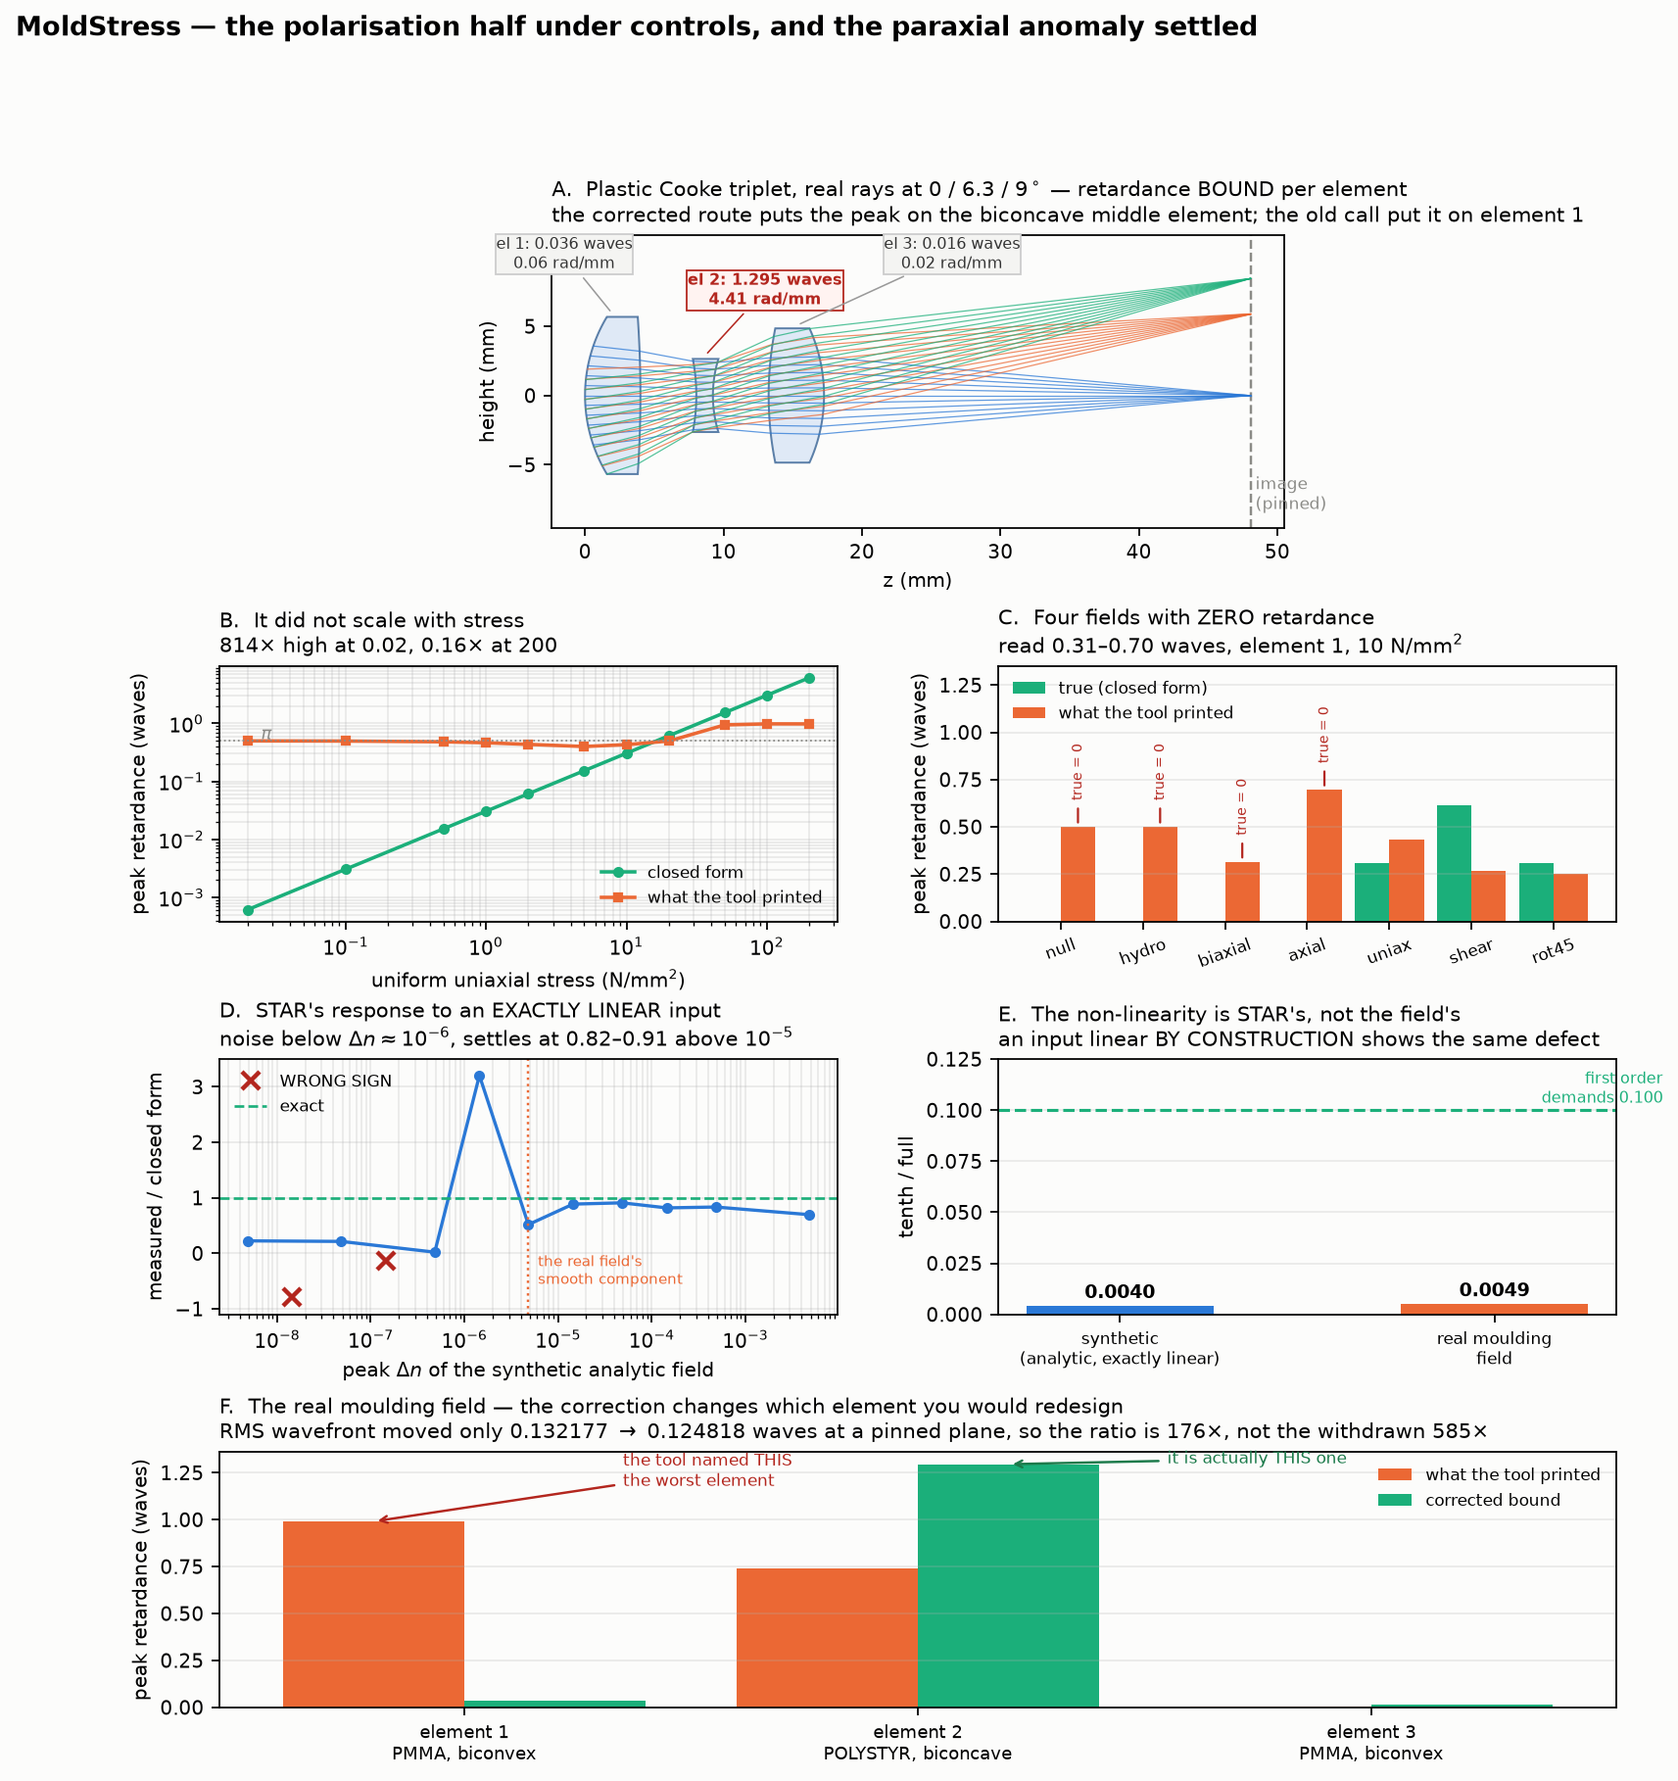
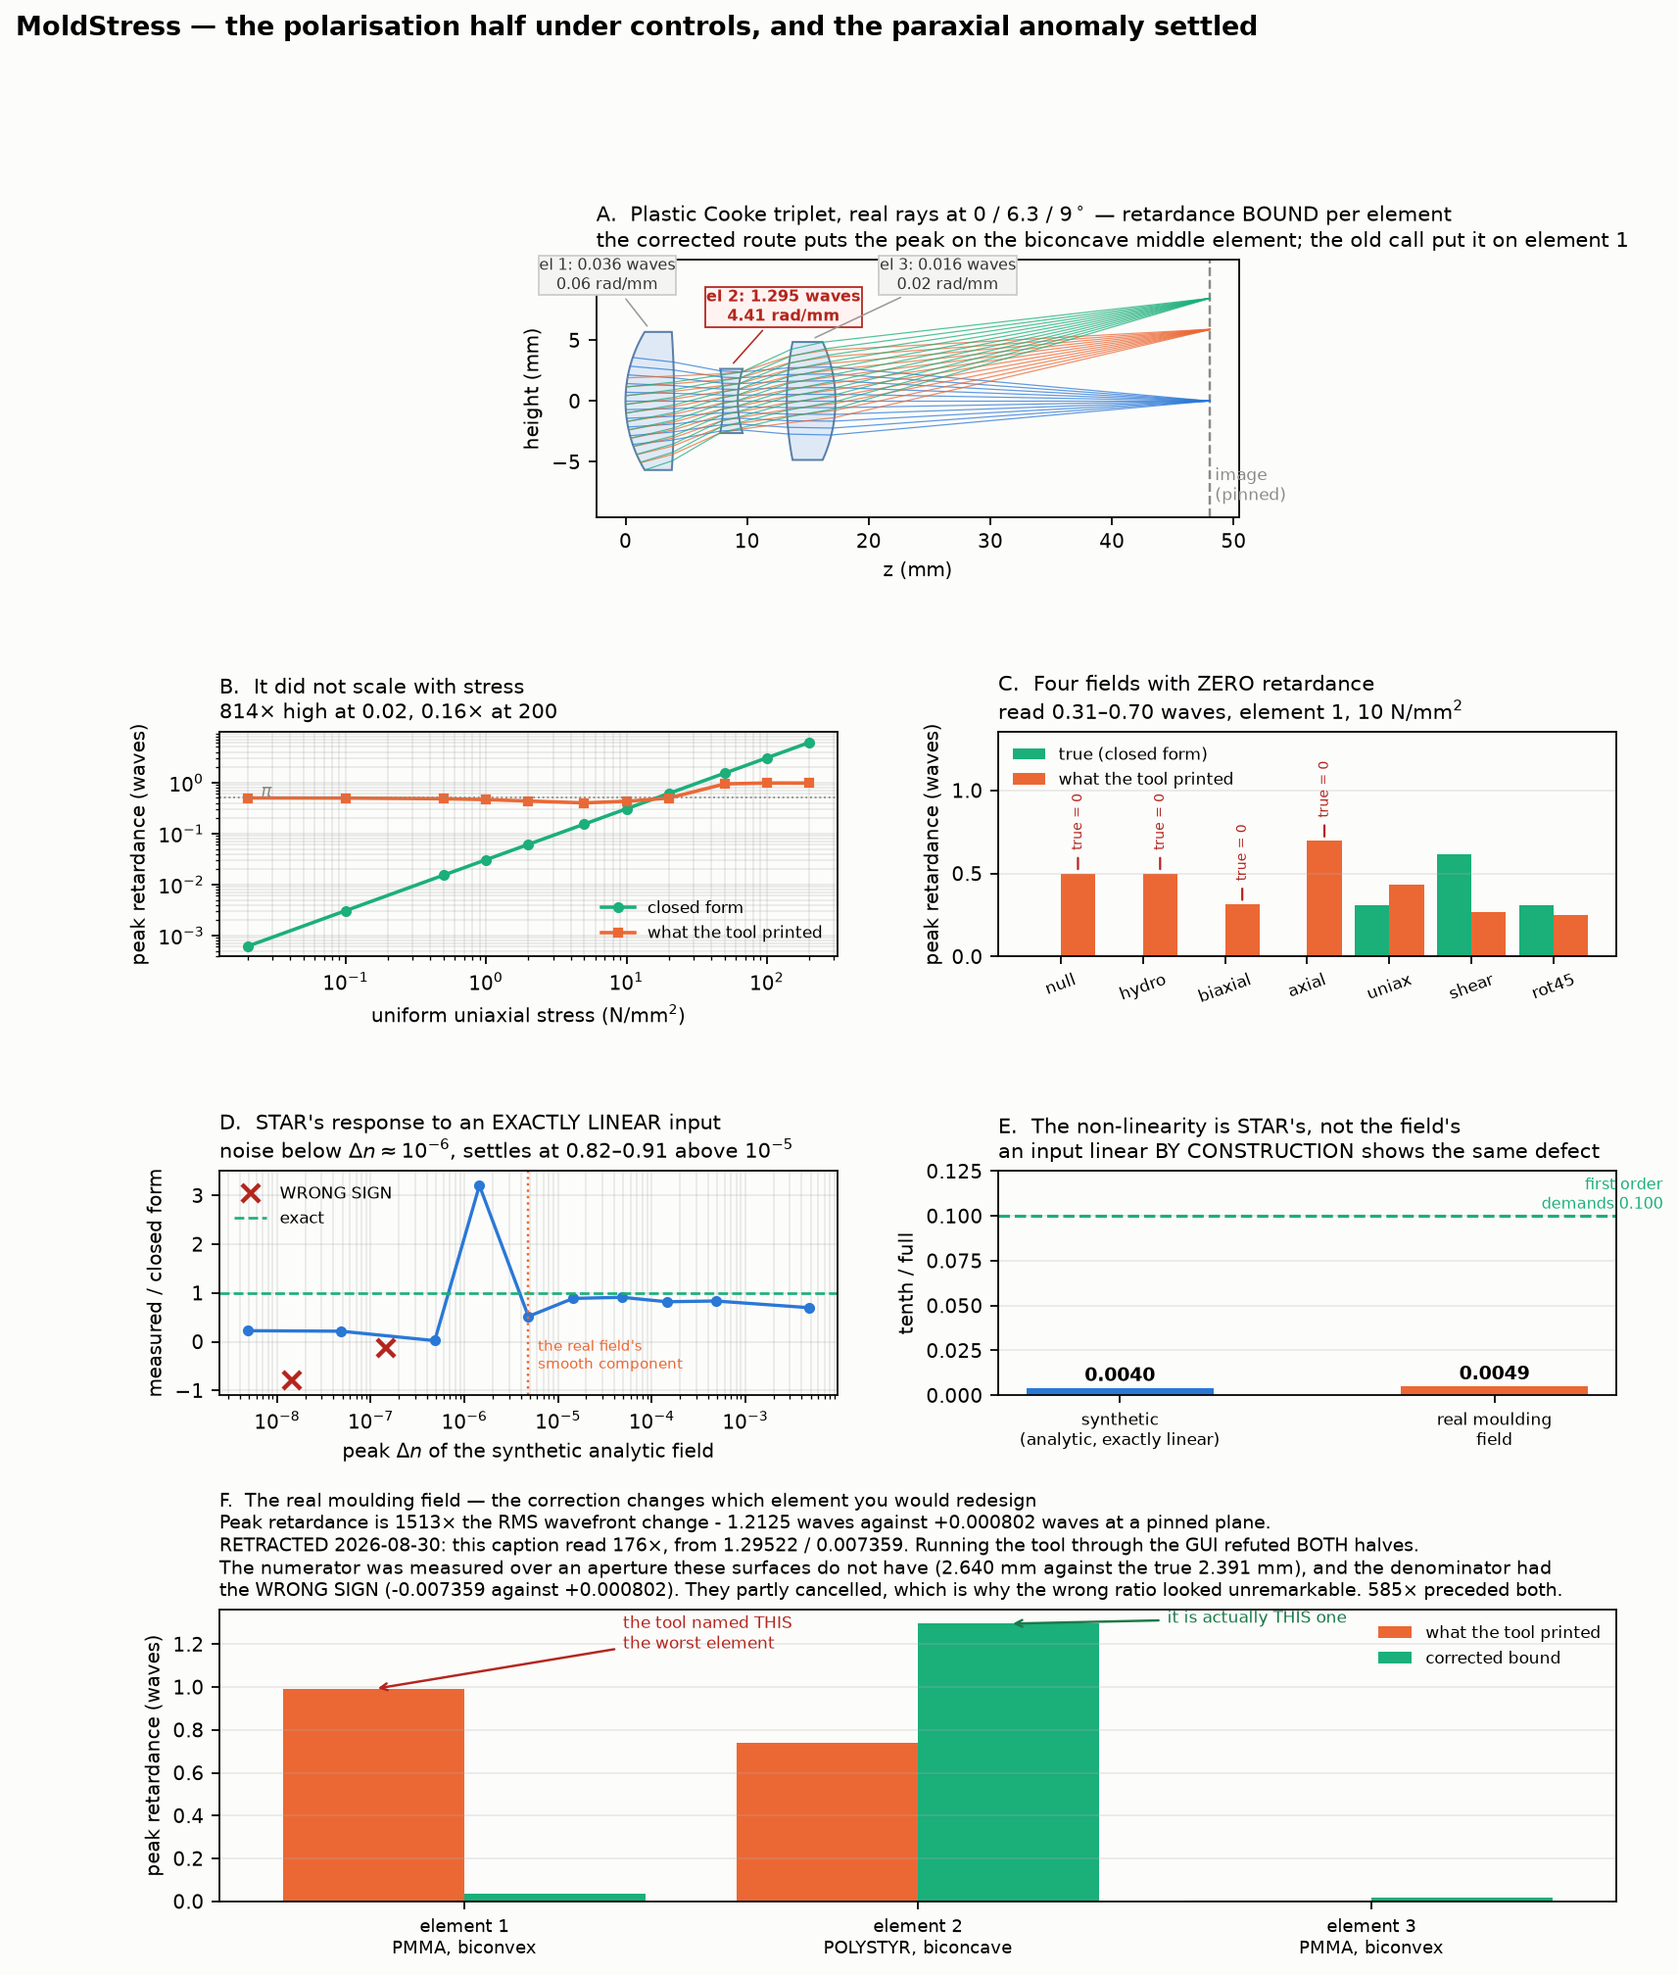
Retract 176x from the exec-summary figure, and add the batch summary
THE FIGURE GENERATOR STILL CARRIED A NUMBER THIS PROJECT WITHDREW YESTERDAY.
When the GUI run refuted 176x on 2026-08-29 the C# side was corrected in two
places - Runner.cs and SelfTest.cs both narrate the correction - and figs2.py
was not. Its panel F caption has been rendering "the ratio is 176x, not the
withdrawn 585x" into summary.png ever since, which is the one artifact anyone
looks at first.

Retracted in place rather than silently swapped, because the interesting part is
HOW it was wrong: both halves were, and they partly cancelled. The numerator was
measured over an aperture surfaces 3-4 do not have (2.640 mm against the true
2.391 mm) and the denominator had the wrong SIGN (-0.007359 against +0.000802).
A ratio wrong in both halves looked unremarkable, which is why it stood for
hours. The corrected figure is 1513x.

Also adds figs3.py -> figret/batch.png, the exec summary for the accuracy batch:

  A  2D layout, real rays at 0 / 6.3 / 9 deg. The peak retardance lands on
     element 2, MS_POLYSTYR - the one polymer of the three in this triplet whose
     coefficient source states no interval at all. The layout is where that
     lands, so that is where it is written.
  B  before / after MoldStress at the SAME image plane: 0.132177 -> 0.132978
     waves RMS, +0.000802 (+0.6%). B2 puts the 1.2125 waves of retardance beside
     it on a log axis, which is the 1513x point made visually.
  C  item 1 - the width of each polymer's answer from its own stated interval.
[…]

diff --git a/extensions/MoldStress/validation/mtf-triplet/figs3.py b/extensions/MoldStress/validation/mtf-triplet/figs3.py
@@ -1,0 +1,258 @@
+"""Exec summary for the accuracy batch - uncertainty bands, depth-model
+adjudication, and the STAR round-trip check.
+
+Panel A  2D layout with real traced rays, three fields, and where the peak
+         retardance lands - on the ONE element whose coefficient has no
+         published interval.
+Panel B  before / after MoldStress on the pinned image plane, with the
+         retardance beside it, because that is the 1513x point.
+Panel C  item 1 - how wide each polymer's retardance answer is, given the
+         interval its own source states. Two of five state none.
+Panel D  item 2 - the two depth models, adjudicated.
+Panel E  item 3 - the headline round-trip measurement: loading a uniform index
+         collapses F, d and C onto the d-line path.
+Panel F  item 3 - the check discriminates: clean vs poisoned.
+
+Writes figret/batch.png.
+"""
+import json
+import os
+
+import matplotlib
+matplotlib.use("Agg")
+import matplotlib.pyplot as plt
+import numpy as np
+
+from zos import ZOSAPI, connect, HERE
+
+BASE = os.path.join(HERE, "plastic-cooke-MoldStress.zmx")
+FIG = os.path.join(HERE, "figret")
+os.makedirs(FIG, exist_ok=True)
+SURFACE = "#fcfcfb"
+plt.rcParams.update({"font.size": 9, "figure.dpi": 160,
+                     "figure.facecolor": SURFACE, "axes.facecolor": SURFACE})
+BLUE, ORANGE, GREEN, GREY, RED = "#2a78d6", "#eb6834", "#1baf7a", "#8a8a86", "#b3261e"
+
+RT = json.load(open(os.path.join(HERE, "starroundtrip.json")))
+
+# From gui_run.txt - the run through the OpticStudio GUI on 2026-08-29, which is
+# the only route these numbers have ever been confirmed by. Deliberately NOT
+# recomputed here: a figure that recomputes its own numbers only ever agrees
+# with itself, and the 176x caption this batch retracted was born that way.
+WF_ORIG, WF_BASE, WF_MS = 0.174136, 0.132177, 0.132978
+RET_WAVES, RATIO = 1.2125, 1513
+
+app = connect()
+s = app.PrimarySystem
+assert s.LoadFile(BASE, False)
+NS = s.LDE.NumberOfSurfaces
+s.LDE.GetSurfaceAt(NS - 2).ThicknessCell.MakeSolveFixed()
+ROWS = [dict(i=i, R=float(s.LDE.GetSurfaceAt(i).Radius),
+             t=float(s.LDE.GetSurfaceAt(i).Thickness),
+             mat=(s.LDE.GetSurfaceAt(i).Material or ""),
+             sd=float(s.LDE.GetSurfaceAt(i).SemiDiameter)) for i in range(NS)]
+
+
+def sag(r, R):
+    if R == 0 or abs(R) > 1e9 or not np.isfinite(R):
+        return np.zeros_like(r)
+    q = np.clip(1.0 - (r / R) ** 2, 0.0, None)
+    return (r ** 2 / R) / (1.0 + np.sqrt(q))
+
+
+rt = s.Tools.OpenBatchRayTrace()
+NF, NP = 3, 11
+OPD_NONE = getattr(ZOSAPI.Tools.RayTrace.OPDMode, "None")
+zacc, acc = {}, 0.0
+for r in ROWS[1:NS - 1]:
+    zacc[r["i"]] = acc
+    acc += r["t"]
+zacc[NS - 1] = acc
+seg = {}
+for surf in range(1, NS):
+    hit = rt.CreateNormUnpol(NF * NP, ZOSAPI.Tools.RayTrace.RaysType.Real, surf)
+    for fi in range(NF):
+        for pi in range(NP):
+            hit.AddRay(2, 0.0, [0.0, 0.7, 1.0][fi], 0.0,
+                       -1.0 + 2.0 * pi / (NP - 1.0), OPD_NONE)
+    rt.RunAndWaitForCompletion()
+    hit.StartReadingResults()
+    while True:
+        ok, rayno, err, vig, x, y, z, l, m, n, l2, m2, n2, op, ii = hit.ReadNextResult()
+        if not ok:
+            break
+        if err == 0:
+            seg.setdefault(rayno - 1, []).append(
+                (zacc.get(surf, acc) + (z if surf < NS - 1 else 0.0), y))
+    try:
+        rt.ClearData()
+    except Exception:
+        pass
+rt.Close()
+app.CloseApplication()
+
+fig = plt.figure(figsize=(12.0, 13.6))
+gs = fig.add_gridspec(4, 2, height_ratios=[1.15, 1.0, 1.0, 1.0],
+                      hspace=0.62, wspace=0.27)
+
+# ================================================================== PANEL A
+axA = fig.add_subplot(gs[0, :])
+i = 1
+while i < NS - 1:
+    if ROWS[i]["mat"]:
+        j = i + 1
+        sd = max(ROWS[i]["sd"], ROWS[j]["sd"])
+        rr = np.linspace(-sd, sd, 240)
+        axA.fill(np.concatenate([zacc[i] + sag(np.abs(rr), ROWS[i]["R"]),
+                                 (zacc[j] + sag(np.abs(rr), ROWS[j]["R"]))[::-1]]),
+                 np.concatenate([rr, rr[::-1]]),
+                 color="#dfe9f6", ec="#5b7fa8", lw=0.9, zorder=2)
+        i = j + 1
+    else:
+        i += 1
+for rayno, pts in seg.items():
+    p = np.array(pts)
+    axA.plot(p[:, 0], p[:, 1], lw=0.55, color=[BLUE, ORANGE, GREEN][rayno // NP],
+             alpha=0.75, zorder=3)
+axA.axvline(acc, color=GREY, lw=1.1, ls="--", zorder=1)
+axA.text(acc, -8.6, " image\n (pinned)", fontsize=7.5, color=GREY, va="bottom")
+notes = {1: ("el 1  MS_PMMA", "interval 3.07x wide", -1.5, 9.6),
+         3: ("el 2  MS_POLYSTYR", "PEAK 1.2125 waves\ninterval UNQUANTIFIED", 13.0, 7.6),
+         5: ("el 3  MS_PMMA", "interval 3.07x wide", 27.0, 9.6)}
+for f, (nm, sub, tx, ty) in notes.items():
+    peak = (f == 3)
+    zc = 0.5 * (zacc[f] + zacc[f + 1])
+    axA.annotate("%s\n%s" % (nm, sub),
+                 xy=(zc, max(ROWS[f]["sd"], ROWS[f + 1]["sd"]) + 0.2),
+                 xytext=(tx, ty), ha="center", fontsize=7.4, zorder=6,
+                 color=RED if peak else "#333",
+                 fontweight="bold" if peak else "normal",
+                 arrowprops=dict(arrowstyle="-", lw=0.7,
+                                 color=RED if peak else "#999"),
+                 bbox=dict(fc="#fff3f1" if peak else "#f4f4f2",
+                           ec=RED if peak else "#ccc", lw=0.8, pad=0.3))
+axA.set_title("A.  Plastic Cooke triplet, real rays at 0 / 6.3 / 9$^\\circ$ - where the answer is least certain\n"
+              "the peak retardance lands on the ONE element whose coefficient source states no interval at all",
+              fontsize=9.5, loc="left")
+axA.set_xlabel("z (mm)")
+axA.set_ylabel("height (mm)")
+axA.set_ylim(-9.6, 12.2)
+axA.set_aspect("equal", adjustable="box")
+axA.grid(alpha=0.18)
+
+# ================================================================== PANEL B
+axB = fig.add_subplot(gs[1, 0])
+axB.bar([0, 1, 2], [WF_ORIG, WF_BASE, WF_MS], 0.55, color=[GREY, BLUE, ORANGE])
+for k, v in enumerate([WF_ORIG, WF_BASE, WF_MS]):
+    axB.text(k, v + 0.005, "%.6f" % v, ha="center", fontsize=8.0, fontweight="bold")
+axB.set_xticks([0, 1, 2])
+axB.set_xticklabels(["original\nmaterials", "baseline\npolymers, no stress",
+                     "with moulding\neffects"], fontsize=7.6)
+axB.set_ylabel("RMS wavefront (waves)")
+axB.set_ylim(0, 0.225)
+axB.annotate("+0.000802 waves\n(+0.6%)", xy=(2, WF_MS), xytext=(1.55, 0.185),
+             fontsize=7.8, color=ORANGE, ha="center",
+             arrowprops=dict(arrowstyle="->", color=ORANGE, lw=1.0))
+axB.set_title("B.  Before / after MoldStress, SAME image plane\nso this is optics and not refocusing",
+              fontsize=9.5, loc="left")
+axB.grid(alpha=0.25, axis="y")
+
+axB2 = fig.add_subplot(gs[1, 1])
+axB2.bar([0, 1], [WF_MS - WF_BASE, RET_WAVES], 0.5, color=[ORANGE, RED])
+axB2.set_yscale("log")
+axB2.set_xticks([0, 1])
+axB2.set_xticklabels(["wavefront change\n0.000802 waves",
+                      "peak retardance\n1.2125 waves"], fontsize=7.8)
+axB2.set_ylabel("waves (log scale)")
+axB2.set_title("B2.  The wavefront number understates it %d$\\times$\nfor a polarisation-sensitive system the retardance IS the result" % RATIO,
+               fontsize=9.5, loc="left")
+axB2.grid(alpha=0.25, axis="y")
+
+# ================================================================== PANEL C
+axC = fig.add_subplot(gs[2, 0])
+# hi/lo of each stated interval, read off Polymers.cs rather than retyped:
+# PMMA [-4.6,-1.5], POLYCARB [72,82], TOPAS [-9,-8]; two publish none.
+pol = [("PMMA", 4.6 / 1.5, True), ("POLYCARB", 82.0 / 72.0, True),
+       ("COC_TOPAS", 9.0 / 8.0, True), ("POLYSTYR", 0.0, False),
+       ("COP_ZEONEX", 0.0, False)]
+x = np.arange(len(pol))
+axC.bar(x, [p[1] for p in pol], 0.55,
+        color=[BLUE if p[2] else "#efefec" for p in pol],
+        edgecolor=[BLUE if p[2] else RED for p in pol],
+        hatch=[None, None, None, "//", "//"])
+for k, p in enumerate(pol):
+    axC.text(k, (p[1] + 0.07) if p[2] else 0.12,
+             ("%.2fx" % p[1]) if p[2] else "no interval\npublished",
+             ha="center", fontsize=7.5, fontweight="bold",
+             color="#333" if p[2] else RED)
+axC.axhline(1.0, color=GREY, lw=1.0, ls="--")
+axC.set_xticks(x)
+axC.set_xticklabels([p[0] for p in pol], fontsize=7.2, rotation=18)
+axC.set_ylabel("width of the answer (hi / lo)")
+axC.set_ylim(0, 3.8)
+axC.set_title("C.  Item 1 - how wide is the retardance answer?\npropagated from each source's OWN stated interval; 2 of 5 state none",
+              fontsize=9.5, loc="left")
+axC.grid(alpha=0.25, axis="y")
+
+# ================================================================== PANEL D
+axD = fig.add_subplot(gs[2, 1])
+axD.bar([0, 1], [0.511, 0.970], 0.5, color=[BLUE, ORANGE])
+for k, v in enumerate([0.511, 0.970]):
+    axD.text(k, v + 0.025, "%.3f" % v, ha="center", fontsize=8.4, fontweight="bold")
+axD.set_xticks([0, 1])
+axD.set_xticklabels(["RMS over the 58 of 81\ndepths carrying signal",
+                     "worst single depth"], fontsize=7.6)
+axD.set_ylabel("fractional shape difference")
+axD.set_ylim(0, 1.35)
+axD.text(0.5, 1.16,
+         "mid-plane excluded BY PHYSICS: Eulerian 2.2e-40 vs Lagrangian 3.1e-08 is\n"
+         "the assumption the port exists to replace, and it dominated v1 of this metric",
+         ha="center", fontsize=6.9, color=GREY, style="italic")
+axD.set_title("D.  Item 2 - the two depth models, adjudicated\na ~50% shape disagreement nothing was reporting",
+              fontsize=9.5, loc="left")
+axD.grid(alpha=0.25, axis="y")
+
+# ================================================================== PANEL E
+axE = fig.add_subplot(gs[3, 0])
+lam = [0.486133, 0.587562, 0.656273]
+unl = [5.990880301, 5.966800350, 5.956615491]
+ld = [unl[1] + RT["opth_dload"][k] for k in range(3)]
+axE.plot(lam, [(v - unl[1]) * 1e3 for v in unl], "o-", color=BLUE, lw=1.6, ms=6,
+         label="unloaded - the material keeps its dispersion")
+axE.plot(lam, [(v - unl[1]) * 1e3 for v in ld], "s--", color=RED, lw=1.6, ms=6,
+         label="STAR uniform index loaded - collapsed")
+for k, tag in enumerate(["F", "d", "C"]):
+    axE.annotate(tag, (lam[k], (unl[k] - unl[1]) * 1e3), textcoords="offset points",
+                 xytext=(0, 9), ha="center", fontsize=8.5, color=BLUE,
+                 fontweight="bold")
+axE.axhline(0, color=GREY, lw=0.9, ls=":")
+axE.set_xlabel("wavelength ($\\mu$m)")
+axE.set_ylabel("optical path re. d-line ($\\mu$m)")
+axE.legend(fontsize=7.2, frameon=False, loc="upper right")
+axE.set_title("E.  Item 3 - the headline round-trip measurement\nloading a uniform index collapses F, d and C onto the d-line path EXACTLY",
+              fontsize=9.5, loc="left")
+axE.grid(alpha=0.25)
+
+# ================================================================== PANEL F
+axF = fig.add_subplot(gs[3, 1])
+axF.bar([0, 1], [0, 5], 0.5, color=[GREEN, RED])
+axF.text(0, 0.18, "0 of 10 fail", ha="center", fontsize=8.4,
+         fontweight="bold", color=GREEN)
+axF.text(1, 5.18, "5 of 10 fail", ha="center", fontsize=8.4,
+         fontweight="bold", color=RED)
+axF.set_xticks([0, 1])
+axF.set_xticklabels(["clean run", "--poison\neach arm's SUBJECT broken"], fontsize=7.8)
+axF.set_ylabel("claims failing")
+axF.set_ylim(0, 7.2)
+axF.text(0.5, 6.3,
+         "the first poison SKIPPED ApplyStress() and the arm STILL passed to 1.0000:\n"
+         "GetPointRetardanceList reads the fit, not the applied state",
+         ha="center", fontsize=6.9, color=GREY, style="italic")
+axF.set_title("F.  Item 3 - the check discriminates\nwithout this, \"0 failed\" is a sentence and not evidence",
+              fontsize=9.5, loc="left")
+axF.grid(alpha=0.25, axis="y")
+
+fig.suptitle("MoldStress - the accuracy batch: stated intervals propagated, the depth models adjudicated, the STAR interface checked",
+             fontsize=12, y=0.997, x=0.012, ha="left", fontweight="bold")
+fig.savefig(os.path.join(FIG, "batch.png"), bbox_inches="tight", facecolor=SURFACE)
+print("wrote", os.path.join(FIG, "batch.png"))

diff --git a/extensions/MoldStress/validation/mtf-triplet/figs2.py b/extensions/MoldStress/validation/mtf-triplet/figs2.py
@@ -99,8 +99,8 @@ for surf in range(1, NS):
         pass
 rt.Close()
 
-fig = plt.figure(figsize=(11.5, 12.2))
-gs = fig.add_gridspec(4, 2, height_ratios=[1.15, 1.0, 1.0, 1.0], hspace=0.52, wspace=0.26)
+fig = plt.figure(figsize=(11.5, 13.6))
+gs = fig.add_gridspec(4, 2, height_ratios=[1.15, 1.0, 1.0, 1.30], hspace=0.86, wspace=0.26)
 
 # ================================================================== PANEL A
 axA = fig.add_subplot(gs[0, :])
@@ -252,8 +252,11 @@ axF.annotate("it is actually THIS one", xy=(1 + 0.2, new[1]), xytext=(1.55, 1.30
              fontsize=7.8, color="#1b7a4a",
              arrowprops=dict(arrowstyle="->", color="#1b7a4a", lw=1.1))
 axF.set_title("F.  The real moulding field — the correction changes which element you would redesign\n"
-              "RMS wavefront moved only 0.132177 $\\to$ 0.124818 waves at a pinned plane, so the ratio is 176$\\times$, not the withdrawn 585$\\times$",
-              fontsize=9.5, loc="left")
+              "Peak retardance is 1513$\\times$ the RMS wavefront change - 1.2125 waves against +0.000802 waves at a pinned plane.\n"
+              "RETRACTED 2026-08-30: this caption read 176$\\times$, from 1.29522 / 0.007359. Running the tool through the GUI refuted BOTH halves.\n"
+              "The numerator was measured over an aperture these surfaces do not have (2.640 mm against the true 2.391 mm), and the denominator had\n"
+              "the WRONG SIGN (-0.007359 against +0.000802). They partly cancelled, which is why the wrong ratio looked unremarkable. 585$\\times$ preceded both.",
+              fontsize=8.4, loc="left")
 axF.legend(fontsize=7.8, frameon=False)
 axF.grid(alpha=0.25, axis="y")
 
